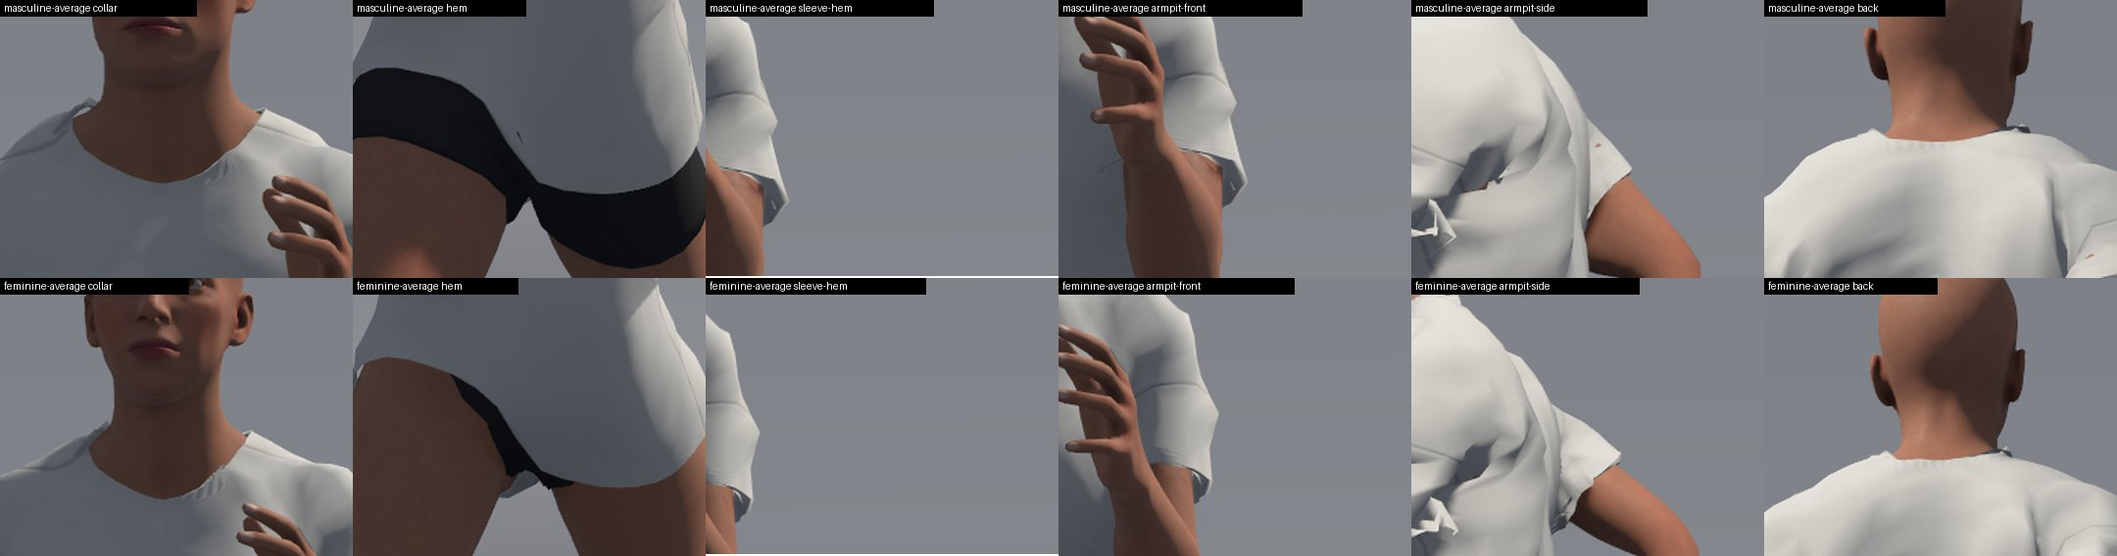
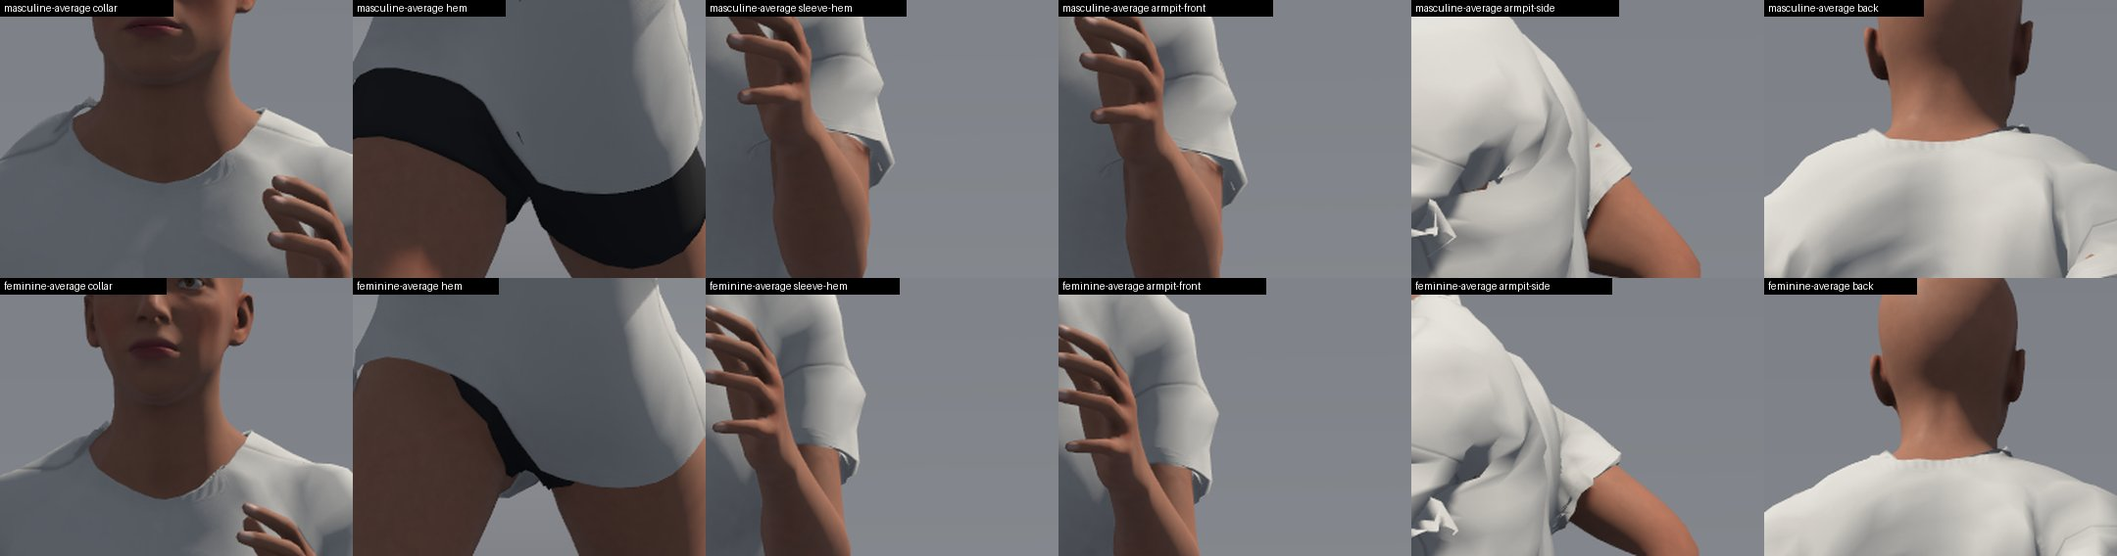
Wave 5 Licensed Tee: Review Fixes 1, the Unreported Defects and the Unwrap in the Record
The review found two blocking problems; both are fixed. The tee still
fails decision 13 and stays Draft.

- The provenance record now lists the texture coordinates laid out again
  (red first: RefineTest.test_the_record_lists_the_unwrap); the record is
  regenerated by the intake's export, every other output byte-identical.
- The four defects the hand-back missed are reported with body, pose and
  place, and measured: the T-pose's detached underarm strips and the
  arms-forward spike are the sleeve hems' fold triangles under the arm,
  stretched up to 111 times (167 to 200 mm); the dark lip at the back of
  the neck; the skin speck on the back of the right sleeve in the walk.
- T-pose sheets added; the arms-forward and walk crops reframed on the
  sleeve hem.
- Non-blocking: the module doc, the spec's script name, the red test's
  sign, and stale lines in Known-Limitations and asset-quality section 6.

diff --git a/crates/player/src/tee_crew_tests.rs b/crates/player/src/tee_crew_tests.rs
@@ -3,8 +3,10 @@
 //! `axcenity/realistic-tee-crew`, BlenderKit's Plain T-shirt (CC0) through
 //! the licensed-asset intake, worn over the underwear by every realistic
 //! cast and body benchmark, as a game poses it. It is held to
-//! `docs/development/character-studio/asset-quality.md` §1 to §3 with **no
-//! record**: a defect found here fails it.
+//! `docs/development/character-studio/asset-quality.md` §1 to §3. It is a
+//! draft that fails them, so each case carries a record of what it fails
+//! now (below); `check` fails a case that gets worse or better than its
+//! record, and a production item has none.
 //!
 //! - **Poke-through** (the fit gate's rule, `fit_gate_tests`): no body
 //!   corner more than 1 mm outside the tee where the tee covers it at rest,
@@ -285,6 +287,28 @@ fn the_licensed_tee_stays_steady_in_the_run() {
 // - The simpler copies: LOD2's 1,020 triangles cut inside the skin.
 // - The run: the cloth at the front of the armpit jolts 6 mm in one frame
 //   as the arm swings through hanging (feminine slim, frame 10).
+//
+// Seen in the captures and **not counted by any record** (cloth-only
+// defects, or skin the gate's records already hold elsewhere on the same
+// body; review fixes 1, `tee-licensed.md` section 5):
+//
+// - T-pose, every cast body: detached strips about 15 to 20 cm long hang
+//   diagonally from both underarms (mesh separation). They are the sleeve
+//   hems' fold and turn-up triangles under the arm (rest edges 1.2 to
+//   4.8 mm), stretched 3 to 111 times between corners that follow the arm
+//   and corners that stay with the side (167 mm on masculine average,
+//   200 mm on feminine average, from the gate's dumps).
+// - Arms forward, every cast body's side view: the same triangles stick
+//   out as a white spike at the side of the armpit (177 mm on masculine
+//   average, 149 mm on feminine average).
+// - Rest and the walk, every cast body: a dark lip about 4 cm long shows
+//   above the rib at the back of the neck, right of the spine seen from
+//   behind (the character's right), with a light tick at its end; with
+//   the right arm forward in the walk it stands up as a light tab of about
+//   1 cm. Not a clean back.
+// - The walk with the right arm back (Walk@0.367), masculine average,
+//   heavyset and muscular: a skin speck of 7 to 11 mm on the back of the
+//   right sleeve just above its hem.
 
 const fn known(garment: &'static str, pose: &'static str, cases: usize, worst: f32) -> Known {
     Known {

diff --git a/assets/characters/realistic/import/fit.py b/assets/characters/realistic/import/fit.py
@@ -310,7 +310,10 @@ def changes_of(spec, work):
     """What the steps changed, from their reports, for the record."""
     def report(name):
         path = os.path.join(work, name)
-        return json.load(open(path, encoding="utf-8")) if os.path.exists(path) else {}
+        if not os.path.exists(path):
+            return {}
+        with open(path, encoding="utf-8") as f:
+            return json.load(f)
     out = []
     loaded = report("loaded.json")
     if loaded.get("units_to_metres", 1.0) != 1.0:
@@ -336,6 +339,9 @@ def changes_of(spec, work):
     if "pose" in conformed:
         out.append("posed to the realistic body's rest pose")
     refined = report("refined.json") if os.path.exists(os.path.join(work, "refined.npz")) else {}
+    if refined.get("unwrap"):
+        method = refined["unwrap"].get("method", "ANGLE_BASED").lower().replace("_", "-")
+        out.append(f"texture coordinates laid out again (Blender's {method} unwrap along the source's own seams)")
     for name in refined.get("materials", {}):
         out.append(f"a {name.lower()} band made from the faces along its edge")
     hems = refined.get("hems", [])

diff --git a/assets/characters/realistic/import/test_intake.py b/assets/characters/realistic/import/test_intake.py
@@ -391,6 +391,21 @@ class RefineTest(unittest.TestCase):
         out, _ = refine.unwrap(mesh, {"method": "CONFORMAL", "margin": 0.01})
         self.assertLess(checks.uvs(out)["stretched_share"], 0.05)
 
+    def test_the_record_lists_the_unwrap(self):
+        """Wave 5 review: the provenance record lists every change the
+        refine step made, the texture coordinates laid out again too
+        (asset-quality.md section 2: 'what was changed')."""
+        import fit
+        with tempfile.TemporaryDirectory() as work:
+            with open(os.path.join(work, "refined.json"), "w", encoding="utf-8") as f:
+                json.dump({"unwrap": {"method": "ANGLE_BASED", "islands_kept": True}}, f)
+            open(os.path.join(work, "refined.npz"), "wb").close()
+            changes = fit.changes_of({}, work)
+        unwrap = [c for c in changes if "texture coordinates" in c]
+        self.assertEqual(len(unwrap), 1, changes)
+        self.assertIn("angle-based", unwrap[0])
+        self.assertIn("the source's own seams", unwrap[0])
+
 
 class LoadTest(unittest.TestCase):
     def test_a_packed_webp_map_is_saved_as_a_png(self):

diff --git a/crates/avatar/src/fit/tests.rs b/crates/avatar/src/fit/tests.rs
@@ -760,8 +760,8 @@ fn skin_between_a_coarse_garments_corners_stays_under_its_triangles() {
         }
         assert!(
             worst <= -0.002 + 2e-4,
-            "at {weights:?} the skin comes {:.1} mm from the cloth (the margin is 2 mm)",
-            -worst * 1000.0
+            "at {weights:?} the skin comes {:.1} mm outside the cloth (it must be 2 mm inside)",
+            worst * 1000.0
         );
     }
 }

diff --git a/wiki/Roadmap/Known-Limitations.md b/wiki/Roadmap/Known-Limitations.md
@@ -57,11 +57,11 @@ The Character Runtime (Character Studio overhaul CO3; [Characters](../Engine-Sys
 - **Realistic skin: shading limits** (2026-11-17, R5; `docs/development/character-studio/refinement/r5/`). Fixed: the grain and the stippled terminator (the Skin shading model reads the normal map blurred for diffuse light, and the grain's cells are now 5 texels and half as steep), under TAA and MSAA alike; heavy bodies no longer show abdominal lines (a smooth and a defined normal map, blended by muscle and fat), and keep their navel (the smooth map keeps the sculpt's forms within 2 cm of it); since the review fix (2026-11-17) no saturated red fills an ear's fold, a nostril's corner, the crease under the eye or the nose's shadow on the upper lip, and a passing cloud doesn't redden skin; since the second review fix a normal map's slope past the triangles' own terminator (the navel's inner wall in a body's shadowed half) no longer glows. Left: under a hard light a few dozen pixels of a face (an ear's rim, the lips' edges) are still a little redder than before R5 (red over green up to about 2.4 in sRGB, against 2.0); there is no screen-space subsurface blur or transmission, so light doesn't bleed past shadow-casting geometry (ears and nostrils lit from behind stay opaque); the curvature that sets how far red spreads comes from screen-space derivatives, constant per triangle; close up the grain is now pores and fine lines rather than a network of cells (since the R5 makeup branch; it read as cracked skin), and since its review the Skin model draws pores and fine lines finer than the maps from the texture coordinates (about 100 pores to a square centimetre on the face); they fade out where a pore cell is under two pixels, so from a face-front distance down they leave no trace, and their pattern is the same on every character (seeded by the texture coordinates, not the description); the smooth normal map flattens the soft tissue's forms by 90% everywhere fat covers it, not by region. Without TAA (High and Ultra default to MSAA 4×, and Character Studio's viewport uses the editor's graphics settings) contact shadows keep their fixed pattern, so a limb in front of the body from the camera's view (not between the body and the sun) still casts a false screen-space contact shadow (it passes contact shadows' 0.5-stud thickness test); a fix is a thinner thickness for characters, or testing the blocker's depth gap against the march distance. The chest's dark band under the studio light (OPEN-09) is the light grazing the upper chest: the shadow terminator problem of a coarse mesh with smooth normals; not fixed.
 - **Makeup and markings: limits** (R5 makeup branch, [ADR-0042](../Architecture/Architecture-Decisions/ADR-0042-Makeup-And-Markings-Are-Layers-Over-Library-Masks-Drawn-Live-By-The-Skin-Model.md)). Nine fixed layers (foundation, blush, eyeshadow, eyeliner, lip colour, brow fill, freckles, moles, one scar on the left cheek): the masks' channel layout is fixed, so a new kind needs a fourth mask or the decal path, and tattoos, birthmarks and placed marks are not built (ADR-0042's decals). The masks are 2K like the skin maps, so eyeliner is two to three texels wide on the face and its wing (since the review, 6.6 mm along the lower lid's line at 22 degrees) is a short flick; brow fill barely shows round the realistic brows' dense card. Freckles and moles are a fixed population of 13,000 and 70 candidate spots chosen by amount and seed: a seed can't move a spot, only pick others. Ray-traced reflections and GI see the skin without makeup. A skin with a layer on loses its own emissive and opacity maps (none of the shipped skins has them).
 - **The first realistic wardrobe is three drafts** (2026-11-18, R7 wave 4; `assets/characters/realistic/clothing/`, `refinement/wave4/r7-wardrobe-first.md`): a crew-neck tee (FreeSewing Teagan), joggers (Paco) and court sneakers, made by a sewn-and-draped pipeline and fitted by `avatar::fit`, waiting for Paul's sign-off of each kind. None passes asset-quality §2 and §3, so none is in a preset or drawn by Randomize: skin comes out of the joggers under the cuffs at the back of the ankles (53 of 54 bodies, up to 31 mm at rest) and of the tee round the waist over the joggers' waistband (38 bodies, 28 mm; every body in the walk and with the arms raised, up to 42 mm in Idle); the joggers' drawcord and waistband come through the tee's hem (every body, 18 mm), the boxer briefs through the joggers (33 bodies, 9 mm), the bra through the tee (21 bodies, 5.4 mm); the tee's crew neck is faceted (22 straight runs at LOD0, up to 39 mm) with tabs of the shell above the band at the shoulder seams, and its lower back bulges out over the seat (roughly 80 to 100 mm, read off the side views) with the hem flaring at the hips on heavyset bodies; the simpler copies cut into the skin (up to 31 mm); the tee's armpit jolts in motion (2.4 mm a frame in the walk, 5.1 in the run); the sneakers let the heel and toes out in the stride (up to 11.3 mm) and their tread tilts with the foot (up to 9.8 mm off flat); texture coordinates are well short of §2 on most materials (the tee's jersey 51.7% within 10% stretch, the sneakers' upper 3.4%; only the tee's rib and the shoes' lining have 8 px/cm on all of their area); two hem corners are turned less than 2 mm (the tee's side hem 1.4 mm, a joggers' cuff 1.92 mm) and drawn quads aren't folds the cloth had in the bent poses (binding has no compression folds at the elbows and knees). Every number is a record in `realistic_wardrobe.rs` and `wardrobe_tests.rs`. Randomize draws Production items only, and Character Studio lists the three drafts only for content review (the View menu), marked "Draft" (ADR-0043).
-- **The first licensed tee is a draft that fails the walk** (2026-11-18, wave 5; `refinement/wave5/tee-licensed.md`): BlenderKit's Plain T-shirt (CC0; authorship by the uploader not confirmed, recorded in its provenance) through the intake with turned hems (3 mm thick), a rib neck band and maps baked from Poly Haven's Cotton Jersey. It fails the walking fit test on every gate body (up to 32 mm), Idle (53 bodies, 38 mm) and the arms raised forward (54 bodies, 30 mm) at the armpit, as every tee before it, and at the hems' edges at rest and in every pose (7 to 14 bodies, 28 mm): the gate's two-ring hem zone is measured in from the open edge, which a turned hem has inside, so skin just past the fold counts as covered (a fold rule was measured, not committed: the lead's decision). The run jolts its armpit 6 mm in a frame. LOD1 and LOD2 cut into the skin (10 bodies at 12 mm, 54 at 31 mm); LOD0's texture is stretched over 10% on 6.5% of its area (the limit is 5%), the simpler copies' on 37% and 65%; its shipped weights reach past the next joint on 1,919 of its corners (asset-quality §2). Without the turned hems the same fit passed rest and the elbows and knees bent: the fit's push-out now also keeps the body's corners under a coarse garment's triangles (`avatar::fit`, wave 5), which that took from 52 failing bodies at rest to none. Records in `tee_crew_tests.rs`.
+- **The first licensed tee is a draft that fails the walk** (2026-11-18, wave 5; `refinement/wave5/tee-licensed.md`): BlenderKit's Plain T-shirt (CC0; authorship by the uploader not confirmed, recorded in its provenance) through the intake with turned hems (3 mm thick), a rib neck band and maps baked from Poly Haven's Cotton Jersey. It fails the walking fit test on every gate body (up to 32 mm), Idle (53 bodies, 38 mm) and the arms raised forward (54 bodies, 30 mm) at the armpit, as every tee before it, and at the hems' edges at rest and in every pose (7 to 14 bodies, 28 mm): the gate's two-ring hem zone is measured in from the open edge, which a turned hem has inside, so skin just past the fold counts as covered (a fold rule was measured, not committed: the lead's decision). The run jolts its armpit 6 mm in a frame. The captures also show cloth-only defects no record counts (review fixes 1, `tee-licensed.md` section 5): in the T-pose, on every cast body, strips about 15 to 20 cm long hang detached from both underarms, the sleeve hems' fold triangles stretched up to 111 times between corners that follow the arm and corners that stay with the side; with the arms forward the same triangles stick out as a white spike at the side of the armpit; at rest and in the walk a dark lip about 4 cm long shows above the rib at the back of the neck, right of the spine (a light tab of about 1 cm with the right arm forward), so the back isn't clean; and with the right arm swung back a skin speck of 7 to 11 mm shows on the back of the right sleeve on three masculine bodies. LOD1 and LOD2 cut into the skin (10 bodies at 12 mm, 54 at 31 mm); LOD0's texture is stretched over 10% on 6.5% of its area (the limit is 5%), the simpler copies' on 37% and 65%; its shipped weights reach past the next joint on 1,919 of its corners (asset-quality §2). Without the turned hems the same fit passed rest and the elbows and knees bent: the fit's push-out now also keeps the body's corners under a coarse garment's triangles (`avatar::fit`, wave 5), which that took from 52 failing bodies at rest to none. Records in `tee_crew_tests.rs`.
 - **Binding-fitted items: the fitting core's limits** (CO9, `avatar::fit`: a garment imported or built takes the body's weights and identity and corrective shapes, pushed out of the body and lower layers). Its limits, measured on the test tee (`crates/avatar/tests/fixtures/test-tee`, a draft with a closed underarm, sleeves past the armpit and, since wave 4, an ordinary crew neck lying on the skin, the sports bra's straps having moved onto the shoulders; it passes the gate at rest, in the T-pose and with the elbows or knees bent; with the arms raised it fails on 1 body, 2.9 mm, at the neck's sides under the collar (the shoulder's cloth flipped over them), and folds into visible flaps under the arm on the feminine bodies, no skin through): it fails the walking fit test (Paul's decision 13; since wave 5 the gate runs the whole stride, every third frame) on all 54 gate bodies in every third of the stride, up to 16.5 mm, and with the arms raised forward on 44 bodies, 9.4 mm, at the arm's inner skin and the torso's side under the arm, where the hanging arm closes on the side and the bridge of cloth between them can't fold into the crease; the bra comes through it there (20 bodies in every third of the stride, up to 17 mm; 15 bodies with the arms forward). In 4K captures (`refinement/wave5/tee-walk/`; `tee-walk.md` gives each defect with its body and place): in the walk, a slit about a centimetre long at the front of the armpit of the arm swung back shows skin on the masculine bodies and the black bra on the feminine heavyset body, and cloth spikes, a black triangle (the bra or the shirt's inside) and light flakes show at the back of the armpit of the arm swung forward; with the arms raised forward (the gate's 44 bodies, 9.4 mm), skin specks of 3 to 5 mm show at the front armpit fold on the masculine slim, average and heavyset bodies, and a sliver of black bra about 16 mm long on the feminine heavyset body; at rest and in the walk, a cloth tab of about 5 mm sticks up at the back of the shoulder seam on the feminine bodies (and on three masculine ones in the walk). The gate doesn't count the tab, the spikes or the arms-raised flaps, because no skin comes out. Wave 4's records (54 bodies, 30 mm in the walk frame) were mostly the gate's measure, not the cloth: 94% of those corners (2,660 of 2,822) were enclosed by the tee (their way out along the normal met the cloth from inside, 17 to 35 mm out) while another part of it, a sleeve beside the chest or the torso's panel beside the arm, came nearer than the cloth over them; wave 5 corrected the measure (`fit_gate_tests::enclosed`, with the hit triangle's posed face required to agree with its smooth normal: a fold flipped in the walk faces the skin with its culled back) and the walk frame's record fell to 38 bodies, 10.2 mm, with the fit unchanged. Wave 5 also tried, and dropped: a posed push of the cloth out of the covered skin through the correctives (it didn't converge in the fit's own poses and made the walk worse, up to 40 mm), splitting the weights so the sleeve follows the arm and the side panel the trunk, fit poses at the walk's own corrective weights, more weight smoothing and no posed follow (each left 49 to 54 bodies at 13 to 20 mm). The wave-4 realistic crew tee fails the stride on every body, up to 38.7 mm (round the waist as at rest, and at the arm, the armpit and the chest). Hiding the skin it covers is no way round this: CO9 part 2's review fixes 1 hid the torso and the upper arm under the sleeve and the walk record fell to 50 bodies at 23.7 mm, but the hidden skin came out from under the cloth (holes: up to 38 mm in the walk on 38 bodies, the arm's edge bitten away below the sleeve's end in 4K captures, and 45 mm at rest under the arm on 25 heavy bodies), so since review fixes 2 an import hides only regions whose skin stays covered in every fit pose (`avatar::fit::pose_safe_hides`; the tee: the waist) and the gate counts holes in every pose. The cause is the arm hanging against the side, not its swing: the tee's underarm, made with the arm at 45 degrees, can't fold into the crease, and the arms hanging alone fail the same. Wave 4's swing correctives (`Corrective_Shoulder_Forward_*`, `_Back_*`) take the body's own fold out (the 95th percentile of its depth 10.6 to 4.9 mm) but not this; the import's posed fit (the garment's copies of the correctives made to follow the skin) barely changes it, and pushing the cloth out in the pose made every pose worse. The tee's armpit also jolts in the motion check (4.1 mm a frame in the walk, 11.7 in the run, `player` `garment_checks`). Loose garments need cloth proxies, deformer maps or a garment made with the arms down (ADR-0035). The import's fine alignment can't tell a size a little bigger from a more even ease (about 2%), and it assumes the same ease all round: a shirt lying on the shoulders with its collar on the skin (the wave-4 test tee) made 5% small and 3 cm high is only 13% more even at its true place, under the 20% and 2 mm the fine fit needs, so it isn't moved (the alignment test uses the wave-3 tee, `TestTeeEvenEase.obj`).
 - **A character's parts pick their levels of detail one by one.** A small part (underwear, eyes, brows) switches to a simpler copy nearer the camera than the body does, and a simplified garment doesn't keep its clearance from the skin: from about 9 studs the stylized character's skin shows through its underwear in blotches (seen in CO2's in-engine captures, which record each part's level in `captures.json`; confirmed in CO9 part 2's review fixes: the capture draws the underwear at level 1 and the body at 0, and the masculine briefs forced to full detail with `AXCENITY_CAPTURE_FULL_DETAIL` show no skin; the feminine briefs at full detail still show skin on the right buttock in the walk, their own clearance, below). Fixing it is CO18's "character LOD sets switched together", with CO9's region hiding (the body under a garment isn't drawn) and CO4's constrained LODs; until then judge clothing fit in the captures' full-detail view and in the Blender harness.
 - **Compute posing (CO8) has a ceiling and a few gaps** (2026-11-17, [ADR-0041](../Architecture/Architecture-Decisions/ADR-0041-Shared-Base-Mesh-With-Live-Identity-Morphs-Baking-Is-Optional.md), `docs/rendering/animation.md`). Each animated character is now morphed (only shapes with a weight) and skinned once a frame, and every pass and ray tracing read that: 50 realistic characters of distinct live descriptions take 1.5 ms of GPU on an RX 9070 XT against 9.6 ms before, and 20 take 1.2 ms against 4.7 ms (`docs/development/character-studio/refinement/wave3/co8-compute-posing.md`). Left: the posing arena (every posed mesh's corners, joints and weights, and the moves of each shape that has been active) must fit one storage binding (128 MB by default; 50 distinct baked characters take 80 MB with its slack), and items past it are drawn at rest with a warning; the arena and the CPU copy each animated mesh keeps of its joints, weights and shapes cost memory the per-pass path didn't (7.5 MB of posing buffers for one live realistic character, 45 MB for 50); 20 live realistic characters (1.22 ms) are still slower than 20 stylized ones were (0.97 ms), the gap being the realistic skin material and the posing pass itself; and GI traced in software (`ray_soft.rs`, GPUs without ray queries) still leaves skinned items out.
-- **The licensed-asset intake is proven on one CC0 accessory, not on a garment** (2026-11-18, wave 5; `assets/characters/realistic/import/`, `refinement/wave5/licensed-intake.md`). Its proof is Poly Haven's Fishermans Hat (CC0), a rigid accessory: the pose conform (an item made in a T-pose or another A-pose brought to the rest pose) and the arm-and-side weight split are tested on small made meshes only, not on a real garment. It doesn't retopologize: an all-triangle scan stays all triangles (the hat is 0% quads), and decimate and remesh are measured help, not a quad layout with loops round the joints. Its collapse decimation stretches texture coordinates (the hat's LOD1 has 24% and LOD2 50% of its area past 10% anisotropy, against 0.3% at LOD0). Placement of an item not made on a body is numbers in the spec found by looking (the hat: scaled 1.1, tilted 8 degrees, lowered to 4 mm off the head); nothing fits a hat's opening or a shoe to the body by itself. The engine's fit binds a far vertex to the skin along its normal, so a brim's tip was bound to a shoulder and pushed out up to 33 mm (the export's read-back now fails `no_weight_past_the_next_joint` on such weights: 344 of the hat's 6,437 LOD0 vertices under the engine fit, but nothing repairs them); `rigid_bone` puts a rigid accessory on one bone at its placed shape, which then doesn't follow the head's or the frame's shapes. A hat has no slot of its own on the realistic base (the proof used `hair`). Only base colour, normal and ORM maps are carried from the source. The proof item is not in the library. Game credits (review fixes 1): an item that isn't cleared for shipping is listed in `CREDITS-CHARACTERS.txt` and Build Game warns first in its note, but the build still succeeds; the record's MIT or Apache notice is checked for being there (and, for MIT, holding the permission notice), not against the asset's own LICENSE file word for word.
+- **The licensed-asset intake is proven on one CC0 accessory and one draft garment** (2026-11-18, wave 5; `assets/characters/realistic/import/`, `refinement/wave5/licensed-intake.md`, `tee-licensed.md`). Its first proof is Poly Haven's Fishermans Hat (CC0), a rigid accessory; the licensed tee (a draft, above) took a garment through it, with the `refine` step and the arm-and-side weight split, but the tee's shipped weights are the engine fit's, so the split's effect on a real garment's walk was measured in experiments only (`tee-licensed.md` section 3), not shipped. The pose conform (an item made in a T-pose or another A-pose brought to the rest pose) is tested on small made meshes only. It doesn't retopologize: an all-triangle scan stays all triangles (the hat is 0% quads), and decimate and remesh are measured help, not a quad layout with loops round the joints. Its collapse decimation stretches texture coordinates (the hat's LOD1 has 24% and LOD2 50% of its area past 10% anisotropy, against 0.3% at LOD0). Placement of an item not made on a body is numbers in the spec found by looking (the hat: scaled 1.1, tilted 8 degrees, lowered to 4 mm off the head); nothing fits a hat's opening or a shoe to the body by itself. The engine's fit binds a far vertex to the skin along its normal, so a brim's tip was bound to a shoulder and pushed out up to 33 mm (the export's read-back now fails `no_weight_past_the_next_joint` on such weights: 344 of the hat's 6,437 LOD0 vertices under the engine fit, but nothing repairs them); `rigid_bone` puts a rigid accessory on one bone at its placed shape, which then doesn't follow the head's or the frame's shapes. A hat has no slot of its own on the realistic base (the proof used `hair`). Only base colour, normal and ORM maps are carried from the source. The proof item is not in the library. Game credits (review fixes 1): an item that isn't cleared for shipping is listed in `CREDITS-CHARACTERS.txt` and Build Game warns first in its note, but the build still succeeds; the record's MIT or Apache notice is checked for being there (and, for MIT, holding the permission notice), not against the asset's own LICENSE file word for word.
 - **Identities registered in a run are kept for the run** (audit D4). Each distinct identity the applier registers (`Assets::register_identity`) stays in `Assets` until the program ends. A realistic identity names about 150 shapes, even those at 0, plus its bone changes: about 8 to 10 KB each (estimated from its entries, not measured), and one more per part with item parameters. Since R2a removed Character Studio's 120 ms drag throttle, a slider drag registers one every frame: about 0.6 to 1.4 MB a second of continuous dragging at 60 to 144 Hz (about 80 KB a second before), so a long editing session can reach hundreds of MB. A prune of keys no MeshPart names, run when a drag ends, is the planned fix. `anim`'s cache of how each model wears each identity is bounded (1,024 entries, more only while a crowd wears them). A baked character's derived model is still made again in every run and whenever its base model is reloaded, never cooked.
 
 The realistic base body (Character Studio overhaul CO4, built and waiting for review; [Characters](../Engine-Systems/Characters.md#the-realistic-base-body), `docs/development/character-studio/testing.md`). Numbers are **Measured** with the Blender QA harness (`measure.py --package realistic`; masculine / feminine frame) and kept in `docs/development/character-studio/co4/measurements.json`:

diff --git a/docs/development/character-studio/refinement/wave5/tee-licensed.md b/docs/development/character-studio/refinement/wave5/tee-licensed.md
@@ -102,7 +102,7 @@ Each row is the intake run again and the tee's whole gate (54 bodies: rest, Idle
 - **The turned hems interact with the gate's hem rule** (E4 to E7).
   - The gate takes two rings of triangles in from an **open** edge as the hem. A turned hem's open edge is inside, at the end of its turn-up, and its rings are 1.5 to 18 mm wide. So the fold, and the panel just above it, count as covering the skin just past the fold.
   - With the hems, rest fails on 7 bodies at 28.2 mm, and the briefs on 11 at 17.9 mm. These are corners 15 mm below the waist hem and below a sleeve's end. Their nearest cloth is the fold's underside, and their way out meets nothing.
-  - In the poses the same misreading adds to the armpit's real failures: the walk goes from 13 to 32 mm.
+  - In the poses the misreading is not the whole story (corrected in review fixes 1). With the fold taken as a hem edge (E6), the arms forward still fail on 54 bodies at 30.5 mm against 7.7 mm without hems (E1), Idle on 51 at 19.9 against 38 at 11.1, and the T-pose on 1 at 24.6. **The turned hems as built also make the cloth itself worse in motion**: the sleeve hems' fold triangles under the arm stretch into the T-pose strips and the arms-forward spike (section 5). Look at the turn-up's inner layer in the poses before choosing a gate rule.
   - **Two gate rules were measured and not committed.** Taking the fold as an edge (E6) passes the tee at rest. It also lowers fourteen records of other items, among them the stylized briefs' visible buttock patch in the walk, which it stops seeing: that is too much. Taking only the fold (E7) leaves the tee 1 body at 4.7 mm at rest. It raises the crew tee's rest count from 51 to 52 bodies, a record I may not raise.
   - The gate is unchanged. The hem-edge cases are recorded as this draft's open defects, with this explanation. A rule for turned hems is the lead's decision; the diff is kept outside the repository and can be handed over.
 - **Routes not tried:**
@@ -149,7 +149,7 @@ The refine tests (`RefineTest`) were written after `refine.py`, not before it.
 
 Lower them as the item improves; a production item has none.
 
-## 5. Visual evidence (`tee-licensed/`, 3.9 MB of JPG)
+## 5. Visual evidence (`tee-licensed/`, 3.3 MB of JPG with the T-pose sheets)
 
 **The sheets.** Engine captures at 2560 × 1440.
 - `tee-<pose>.jpg`: the eight cast bodies (masculine slim, average, heavyset, muscular, then the same feminine), a row each, front, side and back, studio light, cropped to the upper body.
@@ -157,7 +157,7 @@ Lower them as the item improves; a production item has none.
 - `before-after-<pose>.jpg`: the wave-4 crew tee (left three) against the licensed tee (right three) on the average bodies.
 - `crops-<pose>.jpg`: full-size crops of the collar, hem, sleeve hem, armpit (front and side) and back.
 
-The poses: `rest`, `walk-right-arm-forward` (`Walk@0.7`), `walk-passing` (`Walk@0.183`), `walk-right-arm-back` (`Walk@0.367`), `arms-raised`, `arms-forward`.
+The poses: `rest`, `walk-right-arm-forward` (`Walk@0.7`), `walk-passing` (`Walk@0.183`), `walk-right-arm-back` (`Walk@0.367`), `arms-raised`, `arms-forward`, and since review fixes 1 `t-pose` (`tee-t-pose.jpg`, `-hard.jpg`, `before-after-t-pose.jpg`, `crops-t-pose.jpg`, cropped wider for the arms; its crops take the underarm from the front and the back).
 
 **What I saw** (looked at whole and zoomed; positions are in the sheet named):
 
@@ -174,7 +174,12 @@ The poses: `rest`, `walk-right-arm-forward` (`Walk@0.7`), `walk-passing` (`Walk@
   - **The hem rides up into the crotch and wraps the thighs and buttocks**, worst on the feminine bodies: the tee reads as a bodysuit. The hem's corners follow the upper legs' weights.
   - The other walk frames (`tee-walk-right-arm-forward.jpg`, `tee-walk-passing.jpg`) show the same armpit flaps and the hem's wrap.
 - **Arms raised** (`tee-arms-raised-hard.jpg`). **Long dark flaps hang from the sleeves' undersides** on both bodies: flipped cloth about 8 to 10 cm long, worst in the side views. That is mesh separation, which the gate doesn't count.
-- **Arms forward**: the shoulder's top by the neck and the front armpit, as the gate says (54 bodies).
+- **Arms forward**: the shoulder's top by the neck and the front armpit, as the gate says (54 bodies). Added in review fixes 1: **a white cloth spike sticks out at the side of the armpit** in the side view of every cast body (`tee-arms-forward.jpg`, side column, under the sleeve; `crops-arms-forward.jpg`, armpit-side and sleeve-hem tiles of both average bodies). The sleeve-hem crop is now framed on the sleeve in the side view, where its end faces the camera; the first sheet's tile was empty background.
+- **Added in review fixes 1** (the review found these in the sheets; the first hand-back didn't report them):
+  - **T-pose, detached strips under both arms, every cast body** (`tee-t-pose.jpg`, front and back columns; `crops-t-pose.jpg`, underarm-front and underarm-back). Two or three long, thin strips hang diagonally from the sleeve's underside towards the side, with background between them and the body: mesh separation. Visible length about 15 cm on the masculine average body (106 px at 1.45 mm a pixel, scaled by the arm span) and up to 20 cm on the feminine ones. The gate's dumps (`AXCENITY_FIT_GATE_DUMP`, masculine and feminine average) say what they are: triangles 3202 to 3204, 3363 to 3444 and their neighbours, at the sleeve's end under the arm, with rest edges of 1.2 to 4.8 mm (the sleeve hems' fold and turn-up: 793 of the tee's 853 triangles with an edge under 5 mm are in the hems' range), stretched 3 to 111 times, the longest edge 167 mm (masculine) and 200 mm (feminine). 203 of the 4,080 triangles stretch over 2 times in the T-pose on the masculine average body, 82 over 5 times. The hem's corners nearest the side are 27 to 37 mm from the skin at rest, and the fit gives them the side's weights while the rest of the hem follows the arm. The wave-4 crew tee shows no strips in the same pose (`before-after-t-pose.jpg`; it shows its waist holes). No skin comes out, so the gate's T-pose record (7 bodies, the hem edges) doesn't count them.
+  - **Arms forward, the spike above is the same triangles**: 419 triangles stretch over 2 times on the masculine average body, the longest edge 177 mm (feminine average 149 mm), triangles 3414 to 3425 at the sleeve's end under the arm.
+  - **A dark lip at the back of the neck, at rest and in the walk, every cast body** (back views; a strip of the eight back necks is in my working folder, not committed). A dark grey sliver about 4 cm long and 2 to 3 mm tall shows above the rib, right of the spine as seen from behind, which is the character's right (the back camera looks along -Z from +Z, so +X, the right, is on the right of the picture; the review said left), with a small light tick at its end. With the right arm forward in the walk (`Walk@0.7`) it stands up as a light tab of about 1 cm on all eight bodies. The neckline stands 8 to 10 mm off the skin (median) on both sides of the back, so it isn't a gap on one side; I haven't traced which layer it is (probably the band's turn-up). Decision 13's "clean back" fails here.
+  - **A skin speck on the back of the right sleeve with the right arm swung back** (`Walk@0.367`; `crops-walk-right-arm-back.jpg`, back tile, right edge; also the armpit-side tile): 7 to 11 mm, just above the sleeve's hem, on masculine average, heavyset and muscular; none on masculine slim or the feminine bodies. The walk's records (54 bodies) already hold skin on these bodies, so it adds no count.
 
 ## Open issues
 
@@ -189,6 +194,7 @@ The poses: `rest`, `walk-right-arm-forward` (`Walk@0.7`), `walk-passing` (`Walk@
    - no simulated folds.
 5. **Authorship of the base isn't confirmed** (section 1).
 6. **No tint variants**: the intake's manifest writes none. Colour roles are declared.
+7. **Cloth-only defects the gate doesn't count** (review fixes 1, section 5): the T-pose underarm strips (every cast body, 15 to 20 cm), the arms-forward spike at the side of the armpit (every cast body), the dark lip above the rib at the back of the neck (every cast body, at rest and in the walk; a 1 cm tab with the right arm forward), and a 7 to 11 mm skin speck on the back of the right sleeve in the walk (three masculine bodies). The first two are the sleeve hems' fold triangles under the arm, weighted partly to the side: the sleeve's turn-up should take the sleeve's weights, not the nearest skin's. A stretch check in the gate (a garment triangle's edges posed against rest) would catch them; none exists.
 
 ## At merge
 
@@ -198,3 +204,66 @@ The poses: `rest`, `walk-right-arm-forward` (`Walk@0.7`), `walk-passing` (`Walk@
 - **The fit change** (`needs` both ways) changes how every future import fits. No shipped item's file changed, and every record held. Re-importing the wave-4 items would change them; they weren't re-imported.
 - **Decisions for you:** a turned-hem gate rule; route (c); the base's authorship; whether this base is worth more work, given open issue 2.
 - **The state stays Draft.** Not ready for the lead's review and Paul's sign-off.
+
+## Review fixes 1
+
+The review found two blocking problems. Both are fixed. **The tee still fails and stays Draft; it is not ready for sign-off.**
+
+**1. Visible defects the hand-back didn't report.** All four are real; I looked at each at full size and measured them. Section 5 ("Added in review fixes 1"), Open issue 7, the records comment in `crates/player/src/tee_crew_tests.rs` and the Known-Limitations entry now give each one's body, pose and place:
+- the T-pose's detached strips under both arms, on every cast body;
+- the arms-forward spike at the side of the armpit;
+- the dark lip at the back of the neck;
+- the skin speck on the back of the right sleeve in the walk.
+
+New captures: the T-pose on the eight cast bodies and both wave-4 crew tees. The command is the section 5 command with `AXCENITY_CAPTURE_POSE=t-pose`. From them, four new sheets: `tee-t-pose.jpg`, `tee-t-pose-hard.jpg`, `before-after-t-pose.jpg` and `crops-t-pose.jpg`.
+
+I also redid two crop sheets:
+- `crops-arms-forward.jpg`: the sleeve-hem tile is now framed on the sleeve, in the side view.
+- `crops-walk-right-arm-back.jpg`: its sleeve-hem tile was mostly background too.
+
+**What the strips and the spike are, measured.** I dumped the posed tee with the gate (`AXCENITY_FIT_GATE_DUMP`, the masculine and feminine average bodies, at rest, in the T-pose and with the arms forward). Then I compared each triangle's edges in the pose against rest.
+- The strips are the sleeve hems' fold and turn-up triangles under the arm. At rest their edges are 1.2 to 4.8 mm.
+- In the pose they stretch 3 to 111 times, to a longest edge of 167 mm on the masculine body and 200 mm on the feminine.
+- The arms-forward spike is the same triangles: 177 mm and 149 mm.
+- The hem corners nearest the side are 27 to 37 mm from the skin at rest. They take the side's weights, while the rest of the hem follows the arm.
+- The wave-4 crew tee has no strips in the T-pose.
+
+**What would fix them:**
+- weight the sleeve's turn-up from the sleeve, not from the nearest skin;
+- add a stretch check in the gate, so cloth-only defects are counted (none exists).
+
+I didn't change the weights in this pass. That would re-import the item and re-record every case. The lip at the back neck isn't a stand-off on one side: the neckline is 8 to 10 mm off the skin at the median on both sides. I haven't traced which layer it is.
+
+**This also answers the review's non-blocking note on the hems.** The turned hems as built make the cloth itself worse in motion, not only the gate's reading. Section 3 is corrected.
+
+**2. The provenance record left out the re-unwrap.** Fixed red first:
+- `test_intake.py` `RefineTest.test_the_record_lists_the_unwrap` failed (0 lines on the unwrap; `tee-licensed-red-run.txt`).
+- `fit.changes_of()` now writes "texture coordinates laid out again (Blender's conformal unwrap along the source's own seams)" when `refined.json` has an `unwrap` report. Its report reader also closes its files now.
+
+I regenerated the record with the intake's export: the command in section 2 with `--from export`, run on a copy of the final work folder. Only `Shirt_TeeCrew.provenance.json` changed: its `changes` and `attribution` now name the unwrap. The `.glb`, binding, thumbnail, `item.json` and `catalogue.json` came out byte-identical.
+
+**Non-blocking items:**
+- Fixed:
+  - the module doc of `tee_crew_tests.rs` (it said "no record");
+  - `refine_tee.py` → `refine.py` in the intake spec's `about` (that text isn't copied into a generated file);
+  - the sign in the red test's failure message (now "comes 8.6 mm outside the cloth (it must be 2 mm inside)");
+  - stale docs: the Known-Limitations intake entry now says one accessory and one draft garment went through the intake, and that the arm-side split's effect on a real garment was measured only in experiments. asset-quality.md section 6 now says what the `refine` step adds and that it doesn't change the cut. Nothing was loosened.
+- Not done:
+  - the editor tests (the `needs()` change reaches the editor's runtime garment import);
+  - a second source entry for the Poly Haven jersey tile;
+  - timing of the new between-corners pass;
+  - the between-corners pass skipping skin whose nearest cloth is a turned hem's inner layer;
+  - the brown ovals in the review's elbows-bent captures.
+
+**Tests run:**
+
+| Run | Result |
+|---|---|
+| `python -I assets/characters/realistic/import/test_intake.py RefineTest` (Blender's Python), before the fix | 3 run, 1 failed (the red) |
+| `python -I assets/characters/realistic/import/test_intake.py` (Blender's Python), after the fix | Ran 30 tests, OK |
+| `cargo nextest run -p axcenity-avatar -p axcenity-player --no-fail-fast` | 472 tests run: 465 passed, 6 failed, 1 timed out, 23 skipped; no ABORT lines. The 6 were `makeup_tests::*` ("turned off changed the picture") and the timeout `skin_value_tests::skin_tone_values_change_the_picture_the_way_they_mean`, all picture comparisons, while another worktree's `axcenity_player` held the GPU. Run alone after it exited: `-E 'test(/makeup_tests::/) \| test(/skin_value_tests::/)'` 19 run, 19 passed. Every `tee_crew_tests`, `fit_gate_tests` and `wardrobe_tests` record held. |
+| `cargo clippy -p axcenity-avatar -p axcenity-player --all-targets -- -D warnings` | clean |
+| `cargo fmt --all` | clean |
+| `python3 -I scripts/check-wiki.py` | 115 pages, 0 errors, 57 warnings |
+
+**At merge.** Nothing new beyond the list above. If you rebuild `tee-crew/*` after the merge, the provenance record now has the unwrap line. The records and the gate are unchanged.

diff --git a/docs/development/character-studio/asset-quality.md b/docs/development/character-studio/asset-quality.md
@@ -89,4 +89,4 @@ How it is built ([ADR-0043](../../../wiki/Architecture/Architecture-Decisions/AD
 
 The wave-4 pipelines (the hair groom and card bake, the FreeSewing ports and drape, the fit) stay as tools for the last two rows; they are no longer the route to a Production item. No batch of items is made until the first of its kind passes.
 
-The Blender-scripts row is the intake (`assets/characters/realistic/import/`, wave 5): it refuses a licence not accepted, records the provenance, imports, reports and repairs topology, places or poses the asset onto the rest pose, weights it, makes the levels, runs section 2's checks per level, fits it with the engine's own import and exports a **draft** with its provenance record. It does not retopologize or rework a garment's construction: that is the second row, by a person.
+The Blender-scripts row is the intake (`assets/characters/realistic/import/`, wave 5): it refuses a licence not accepted, records the provenance, imports, reports and repairs topology, places or poses the asset onto the rest pose, weights it, makes the levels, runs section 2's checks per level, fits it with the engine's own import and exports a **draft** with its provenance record. It does not retopologize or rework a garment's construction: that is the second row, by a person. Its optional `refine` step (wave 5) adds construction details to the source's own cut by script (texture coordinates laid out again, a band split off along an edge, turned hems with thickness, maps baked with seams and stitching) and lists each in the provenance record; it doesn't change the cut, and an item it refines is held to sections 2 and 3 like any other.
